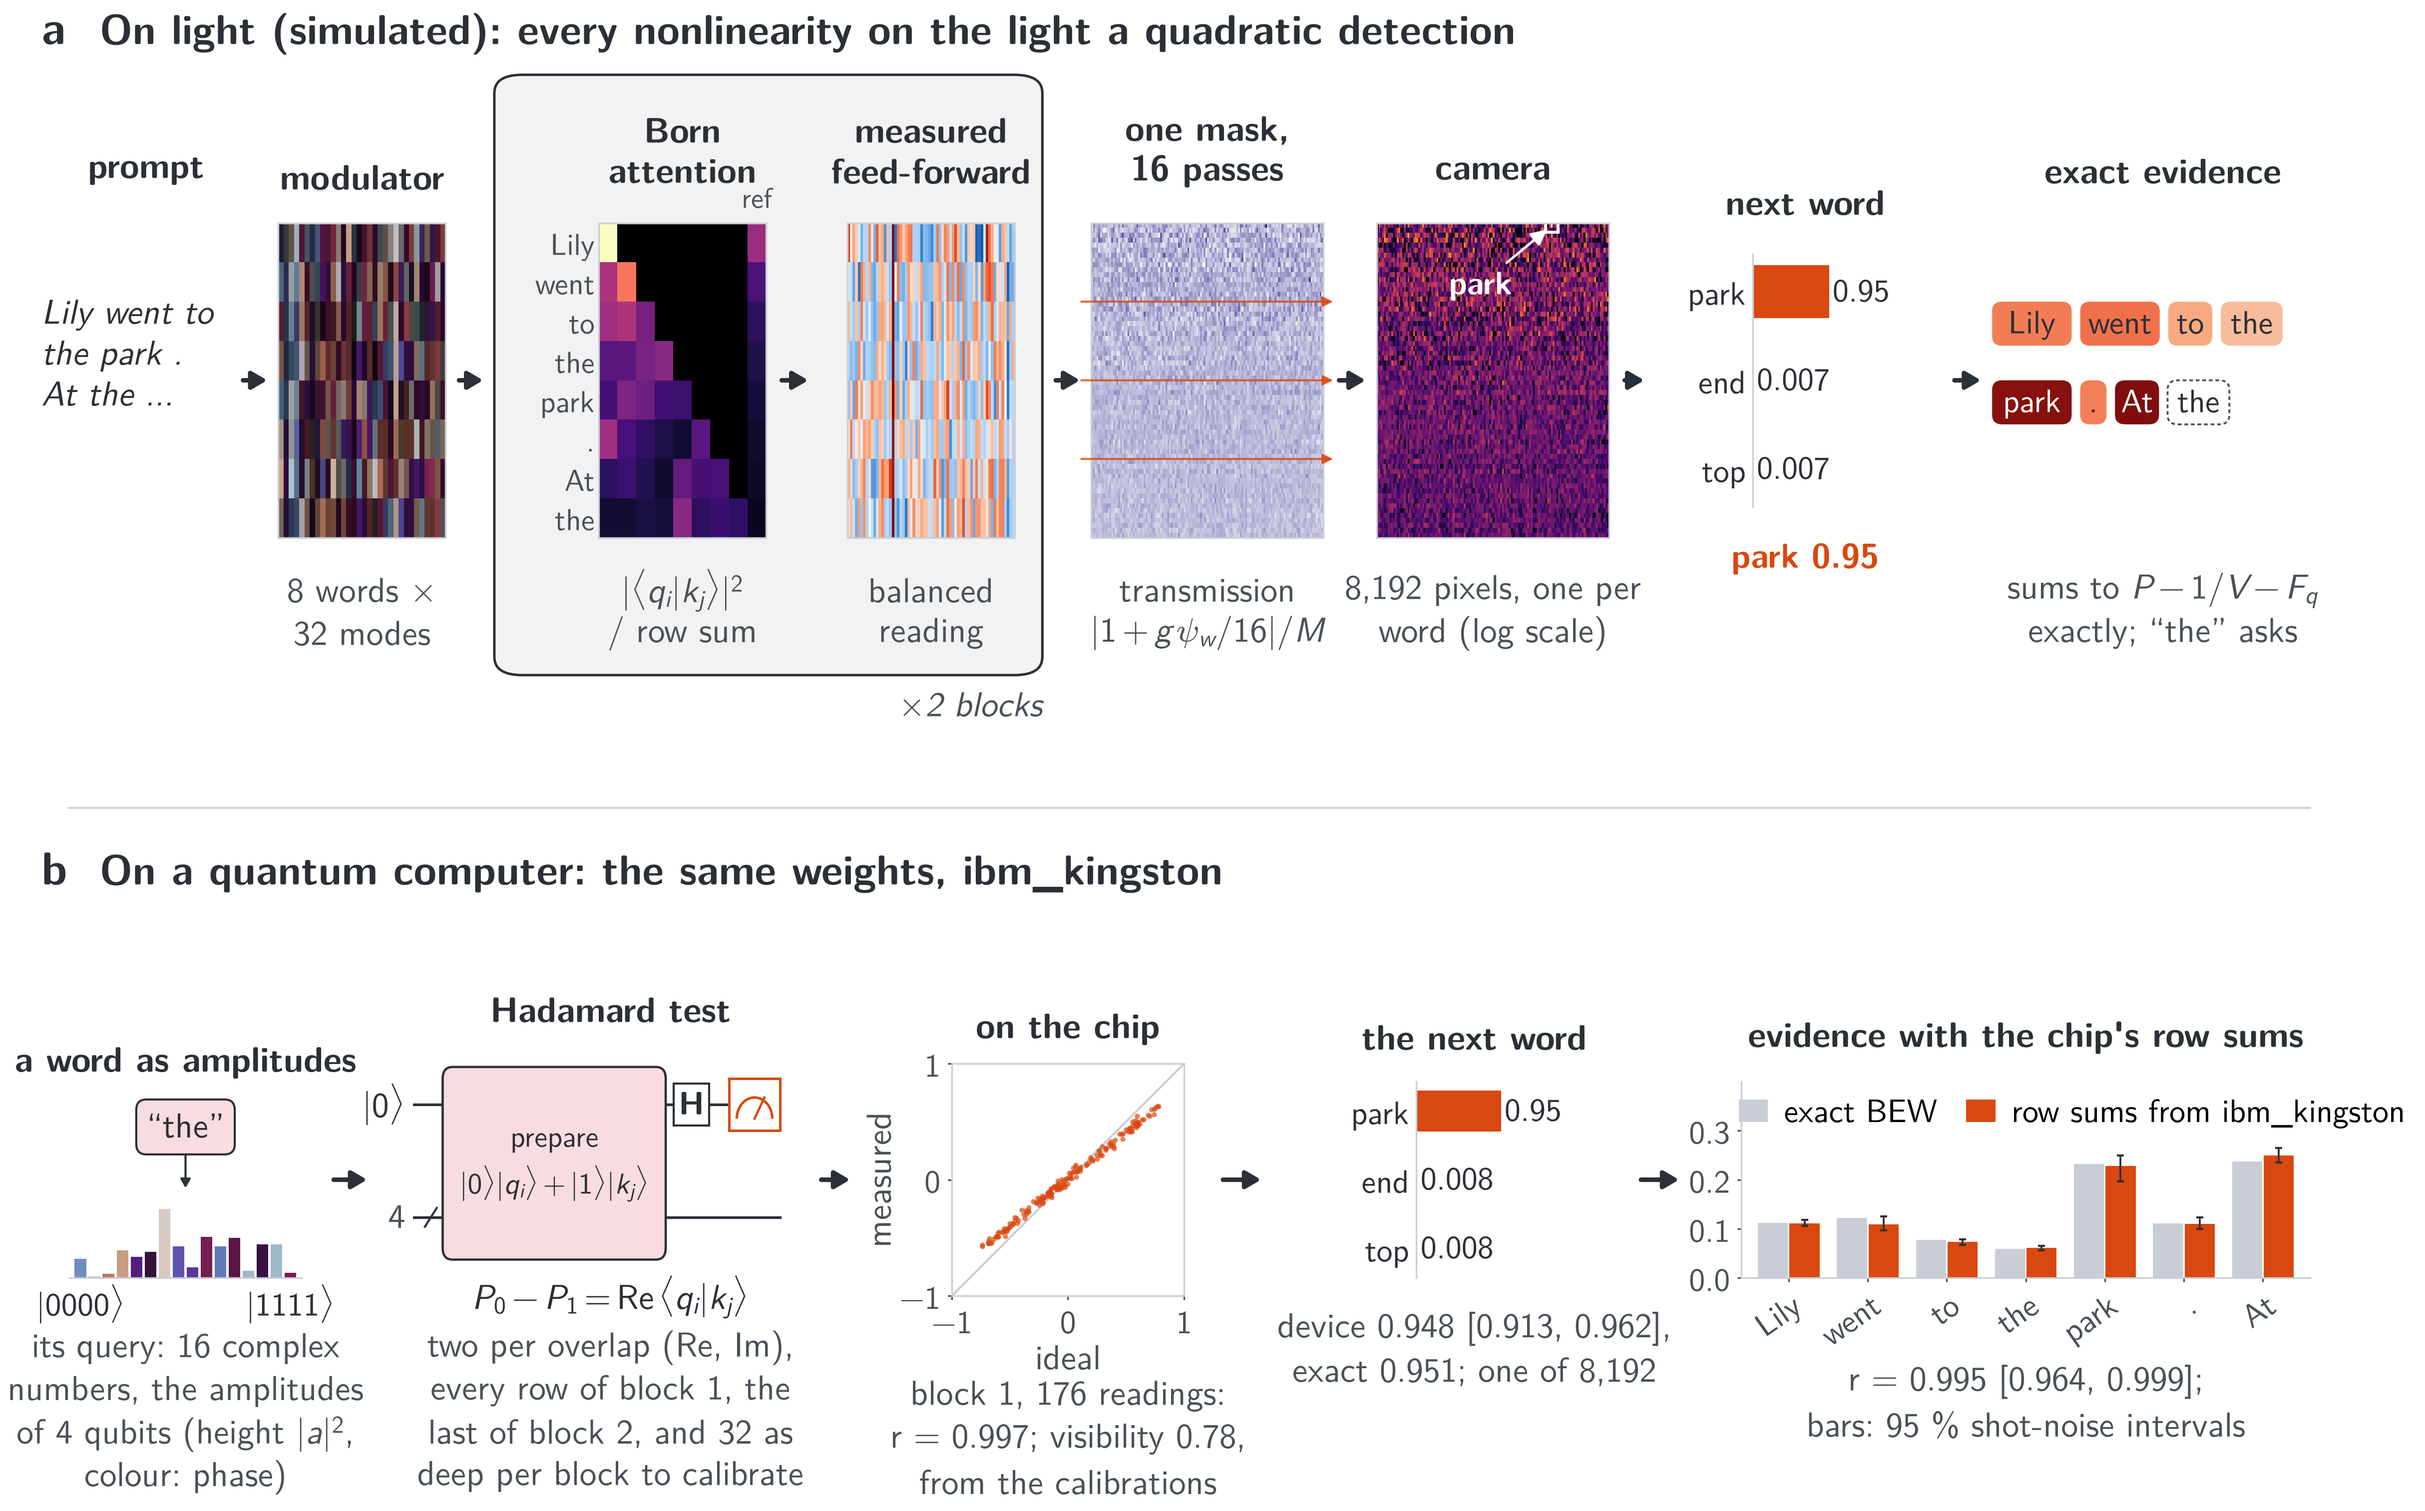
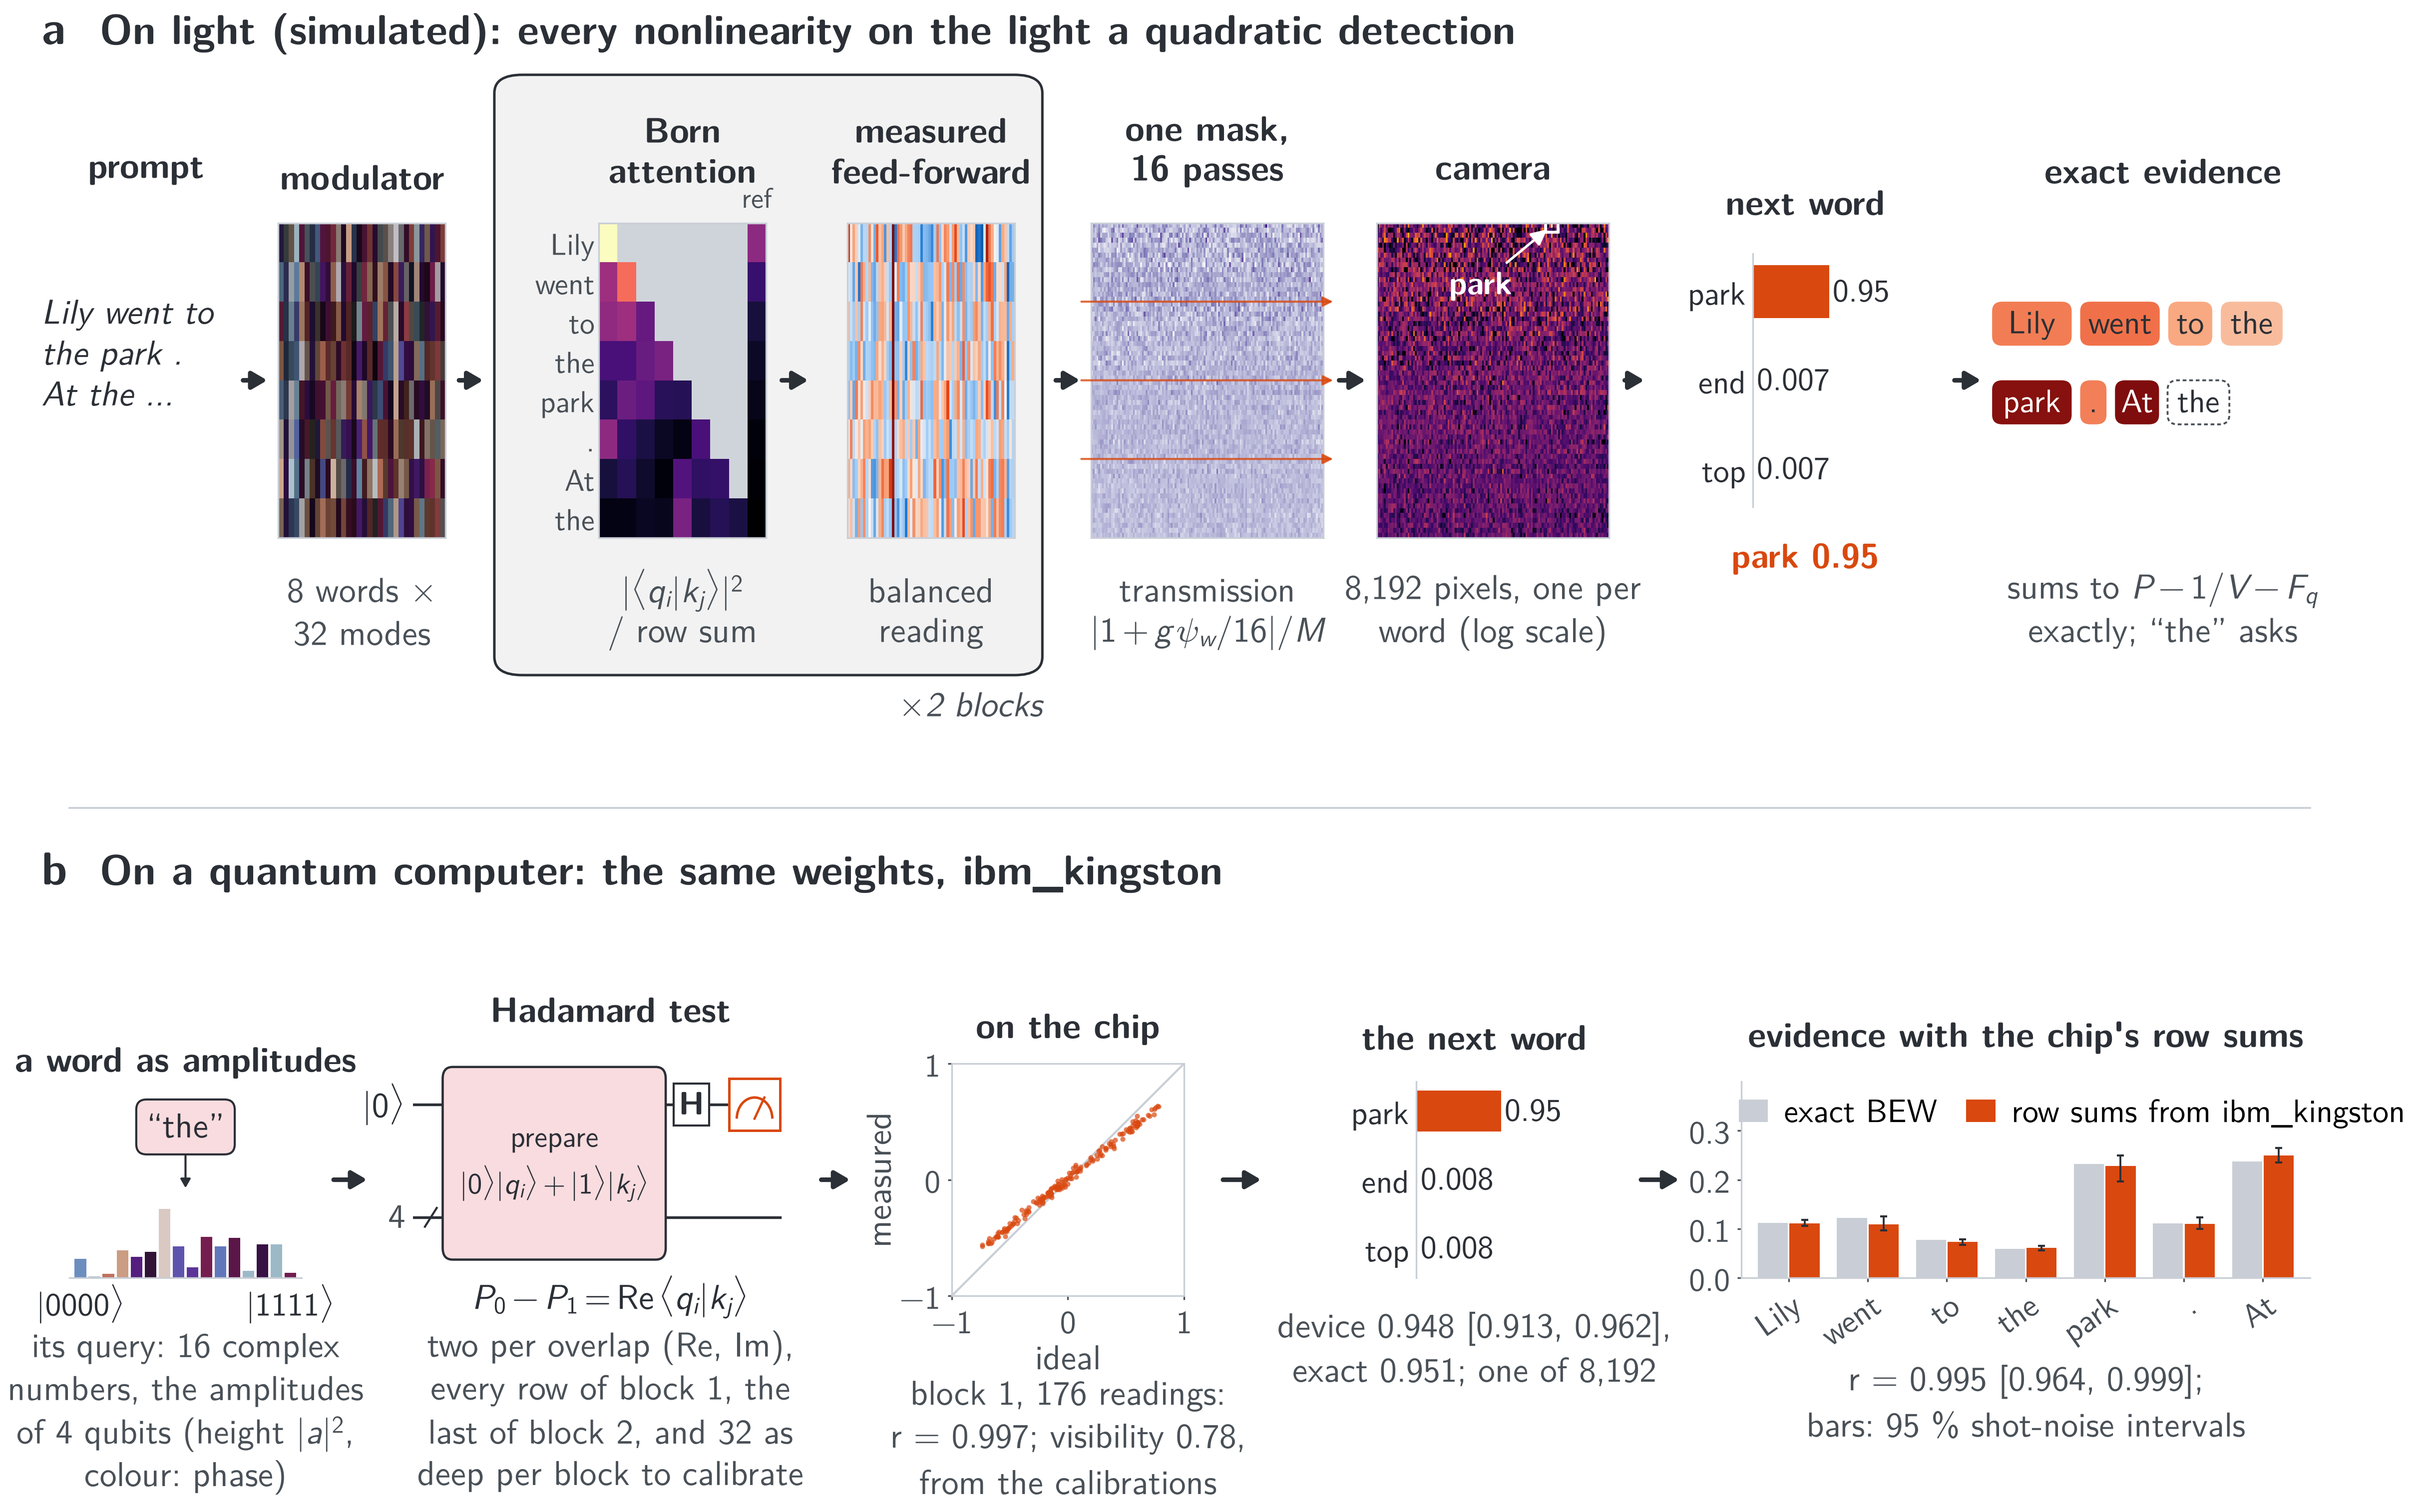
Overview figure: later words greyed in the causal attention map; ladder labels apart

Changed region(s): [[0.2488, 0.1243, 0.3421, 0.3728]]

diff --git a/src/fig_ladder.py b/src/fig_ladder.py
@@ -55,7 +55,9 @@ for ax, key, lab, scale in ((axs[0], "test_acc", "test accuracy (%)", 100), (axs
     for n, v in zip(ns, m):
         acc = key == "test_acc"
         ax.annotate(f"{v:.1f}" if acc else f"{v:.2f}", (n, v), textcoords="offset points",
-                    xytext=(0, 7) if acc else (6, 5), ha="center" if acc else "left", fontsize=7.5, color=INK)
+                    xytext=((7, -2) if n == 1 else (0, 7)) if acc else (6, 5),           # n = 1: right of the point,
+                    ha=("left" if n == 1 else "center") if acc else "left",          # clear of the hollow marker
+                    va="center" if (acc and n == 1) else "baseline", fontsize=7.5, color=INK)
     ax.set_xscale("log", base=2)
     ax.set_xticks(ns, [str(n) for n in ns])
     ax.set_xlabel("passes through the mask, $n$", fontsize=8.5, color=INK)
@@ -69,7 +71,7 @@ for ax, key, lab, scale in ((axs[0], "test_acc", "test accuracy (%)", 100), (axs
 axs[0].set_ylim(40.5, 52)
 axs[1].set_ylim(7.5, 19)
 axs[0].annotate(r"$|\psi|^2$", (0.82, plain["test_acc"] * 100), textcoords="offset points",
-                xytext=(-4, 7), ha="center", fontsize=7, color=MUTED)
+                xytext=(0, -9), ha="center", va="top", fontsize=7, color=MUTED)   # below its marker
 fig.tight_layout(w_pad=2.5)
 for ext in ("png", "pdf"):
     fig.savefig(f"{out}.{ext}", dpi=300, bbox_inches="tight", pad_inches=0.04)

diff --git a/src/fig_overview.py b/src/fig_overview.py
@@ -176,7 +176,11 @@ fig.text(0.439, ys - 0.117, "$\\times$2 blocks", ha="right", fontsize=SUB, color
 ax = axes(0.248, ys, SW, SH, off=False)
 w = scores[1][0].mean(0).numpy()                                     # block 2, mean of heads, [L, L]
 wfull = np.concatenate([w, (1 - w.sum(-1))[:, None]], 1)             # the reference key takes the rest of each row
-ax.imshow(wfull, cmap=att_cmap, aspect="auto", interpolation="nearest")
+future = np.triu(np.ones((L, L), bool), 1)                       # j > i: a later word, never read (causal)
+masked = np.ma.masked_array(wfull, np.concatenate([future, np.zeros((L, 1), bool)], 1))
+cm = att_cmap.copy()
+cm.set_bad("#cfd4da")                                              # light grey: masked, not a small weight
+ax.imshow(masked, cmap=cm, aspect="auto", interpolation="nearest")
 ax.set_xticks([]), ax.set_yticks(range(L), toks, fontsize=14.5, color=MUTED)
 ax.tick_params(length=0, pad=2)
 [s.set_color(LINE) for s in ax.spines.values()]
